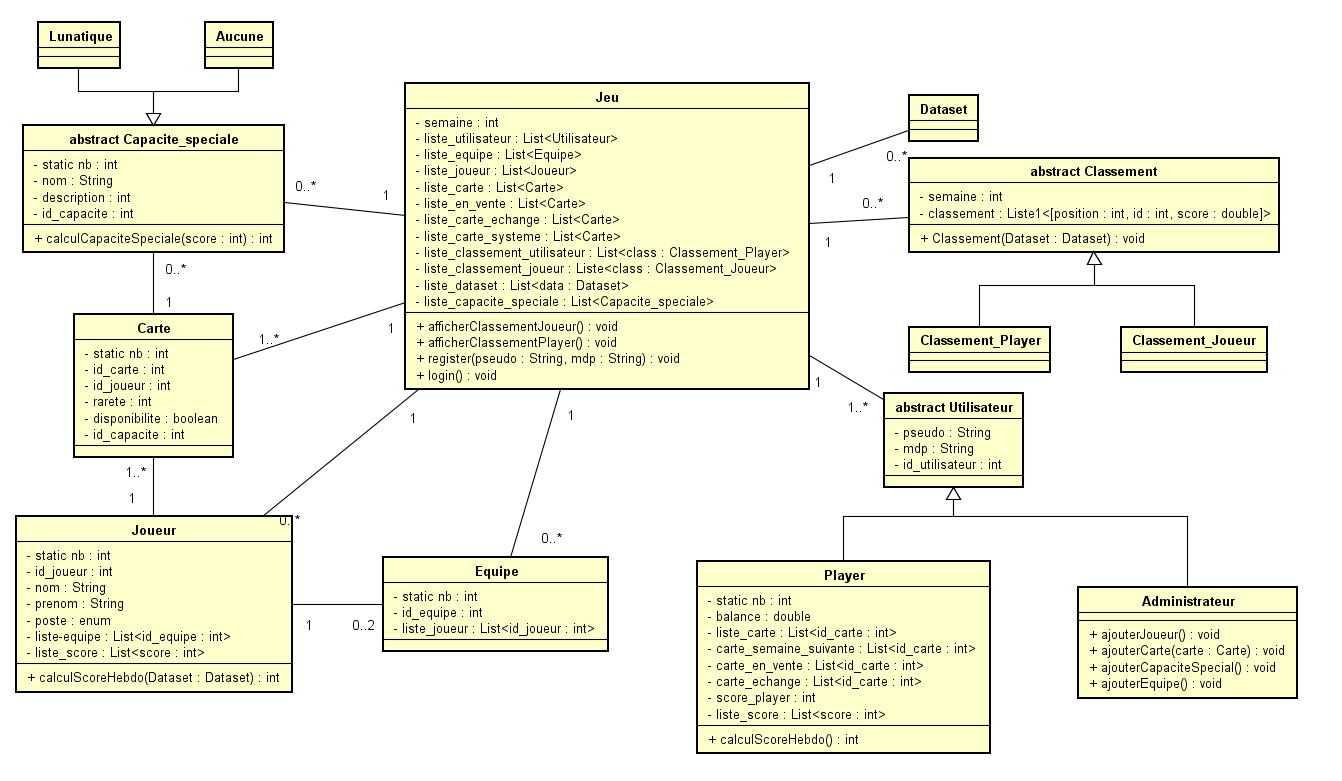
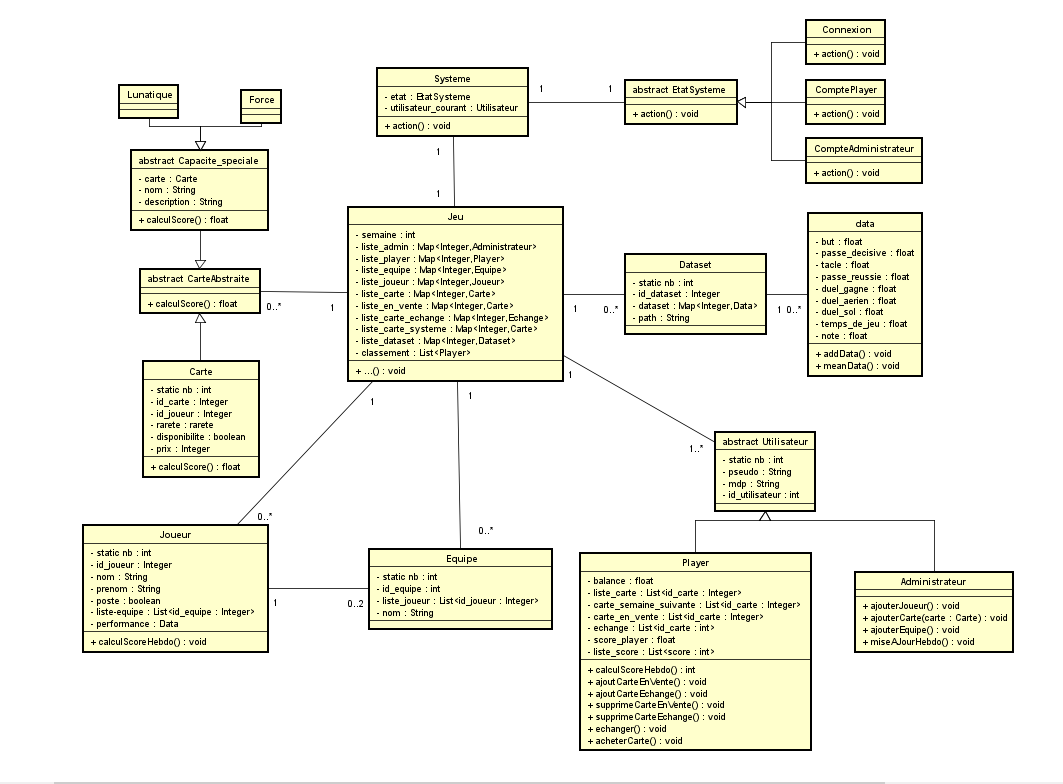
actualisation du diagramme de gantt, correction de bugs mineurs, ajout des tests unitaire au git

diff --git a/src/main/java/Test.java b/src/main/java/Test.java
@@ -1,19 +1,20 @@
-package CodePrincipal;
-
+import static org.junit.Assert.*;
 import java.io.IOException;
 import java.lang.reflect.InvocationTargetException;
 import java.util.ArrayList;
 import java.util.HashMap;
-import java.util.List;
-import java.util.Scanner;
 
 import CapaciteSpeciale.Capacite_speciale;
 import CapaciteSpeciale.Lunatique;
+import CodePrincipal.Administrateur;
+import CodePrincipal.Jeu;
+import CodePrincipal.Player;
 import enumeration.rarete;
 
-public class Main {
+public class Test {
 
-	public static void main(String[] args) throws InstantiationException, IllegalAccessException, IllegalArgumentException, InvocationTargetException, NoSuchMethodException, SecurityException, IOException {
+	@org.junit.Test
+	public void test() throws IOException, InstantiationException, IllegalAccessException, IllegalArgumentException, InvocationTargetException, NoSuchMethodException, SecurityException {
 		
 		// Creation du jeu
 		Jeu jeu = Jeu.getInstance();
@@ -130,10 +131,20 @@ public class Main {
 		
         admin.miseAjourHebdo();
 
-        // Lancement du jeu
-        Systeme systeme = new Systeme(jeu);
-        systeme.action();
+        // Test
+        assertEquals(player.getListeCarte().size(), 5);
+        assertEquals(player2.getListeCarte().size(), 5);
+        assertEquals(player3.getListeCarte().size(), 5);
         
+        assertEquals(jeu.getListePlayer().size(), 3);
+        assertEquals(jeu.getListeEquipe().size(), 2);
+        assertEquals(jeu.getListeJoueur().size(), 36);
+        assertEquals(jeu.getListeCarte().size(), 39960);
+        assertEquals(jeu.getListeCarteSysteme().size(), 39945);
+        assertEquals(jeu.getListeEchange().size(), 0);
+        assertEquals(jeu.getListeEnVente().size(), 0);
+        assertEquals(jeu.getListeDataset().size(), 2);
+        assertEquals(jeu.getListeCapaciteSpeciale().size(), 2);
+        jeu.afficher();
 	}
-
 }

diff --git a/src/main/java/CodePrincipal/Player.java b/src/main/java/CodePrincipal/Player.java
@@ -221,7 +221,7 @@ public class Player extends Utilisateur implements Comparable<Player>{
             this.balance -= carte.getPrix();
             this.liste_carte.add(carte.getIdCarte());
             carte.setIdUtilisateur(id_utilisateur);
-            this.jeu.getListeEnVente().remove(id_carte);
+            this.jeu.getListeCarteSysteme().remove(id_carte);
             this.jeu.getListeCarte().get(carte.getIdCarte()).setDisponibilite(true);
             System.out.println("Achat reussi !");
 
@@ -250,7 +250,7 @@ public class Player extends Utilisateur implements Comparable<Player>{
 	}
 	
 	public void afficher() {
-		System.out.println("=== Player n� : " + id_utilisateur + " ===");
+		System.out.println("=== Player numero : " + id_utilisateur + " ===");
 		System.out.println("balance : " + balance);
 		System.out.println("liste des cartes : " + liste_carte);
 		System.out.println("carte semaine suivante : " + carte_semaine_suivante);
@@ -259,7 +259,7 @@ public class Player extends Utilisateur implements Comparable<Player>{
 	}
 	
 	public void afficherDetail() {
-		System.out.println("=== Player n� : " + id_utilisateur + " ===");
+		System.out.println("=== Player numero : " + id_utilisateur + " ===");
 		System.out.println("balance : " + balance);
 		System.out.println("liste des cartes : ");
 		for (Integer c : liste_carte) {

diff --git a/src/main/java/CodePrincipal/Jeu.java b/src/main/java/CodePrincipal/Jeu.java
@@ -238,6 +238,16 @@ public class Jeu {
 	}
 	
 	@SuppressWarnings("rawtypes")
+	public void afficherListeEquipe() {
+		//chercher carte en vente
+		for(Map.Entry mapentry : this.liste_equipe.entrySet()) {
+			
+			Equipe e  = (Equipe) mapentry.getValue();
+			System.out.println("equipe id " + e.getId_equipe() + " : " + e.getNom());
+		}
+	}
+	
+	@SuppressWarnings("rawtypes")
 	public void chercherEchange(int id_joueur, rarete rar) {
 		//chercher echange selon parametre
         for (Map.Entry mapentry : this.liste_echange.entrySet()) {

diff --git a/src/main/java/CodePrincipal/Administrateur.java b/src/main/java/CodePrincipal/Administrateur.java
@@ -131,7 +131,7 @@ public class Administrateur extends Utilisateur {
 	
 	public void AddAllCSVToDataset() throws IOException {
 		// lis les CSV et en extrait les donnees dans des datasets, puis les ajoute � la liste des datasets de la semaine
-		String path = new File("").getAbsolutePath().concat("/Data/" + jeu.getSemaine().toString() + "/");
+		String path = new File("").getAbsolutePath().concat("\\Data\\" + jeu.getSemaine().toString() + "\\");
 		File folder = new File(path);
 		File[] fichiers = folder.listFiles();
 		

diff --git a/src/main/java/CodePrincipal/Joueur.java b/src/main/java/CodePrincipal/Joueur.java
@@ -86,7 +86,7 @@ public class Joueur {
 	}
 	
 	public void afficher() {
-		System.out.println("=== joueur n� : " + id_joueur + " ===");
+		System.out.println("=== joueur numero : " + id_joueur + " ===");
 		System.out.println("nom : " + nom);
 		System.out.println("poste : " + poste);
 		System.out.println("equipe(s) : ");

diff --git a/src/main/java/CapaciteSpeciale/Capacite_speciale.java b/src/main/java/CapaciteSpeciale/Capacite_speciale.java
@@ -63,4 +63,8 @@ public abstract class Capacite_speciale extends CarteInterface{
 	/*===============================================================================================*/
 	
 	public abstract float calculScore();
+	
+	public void afficher() {
+		this.carte.afficher();
+	}
 }
